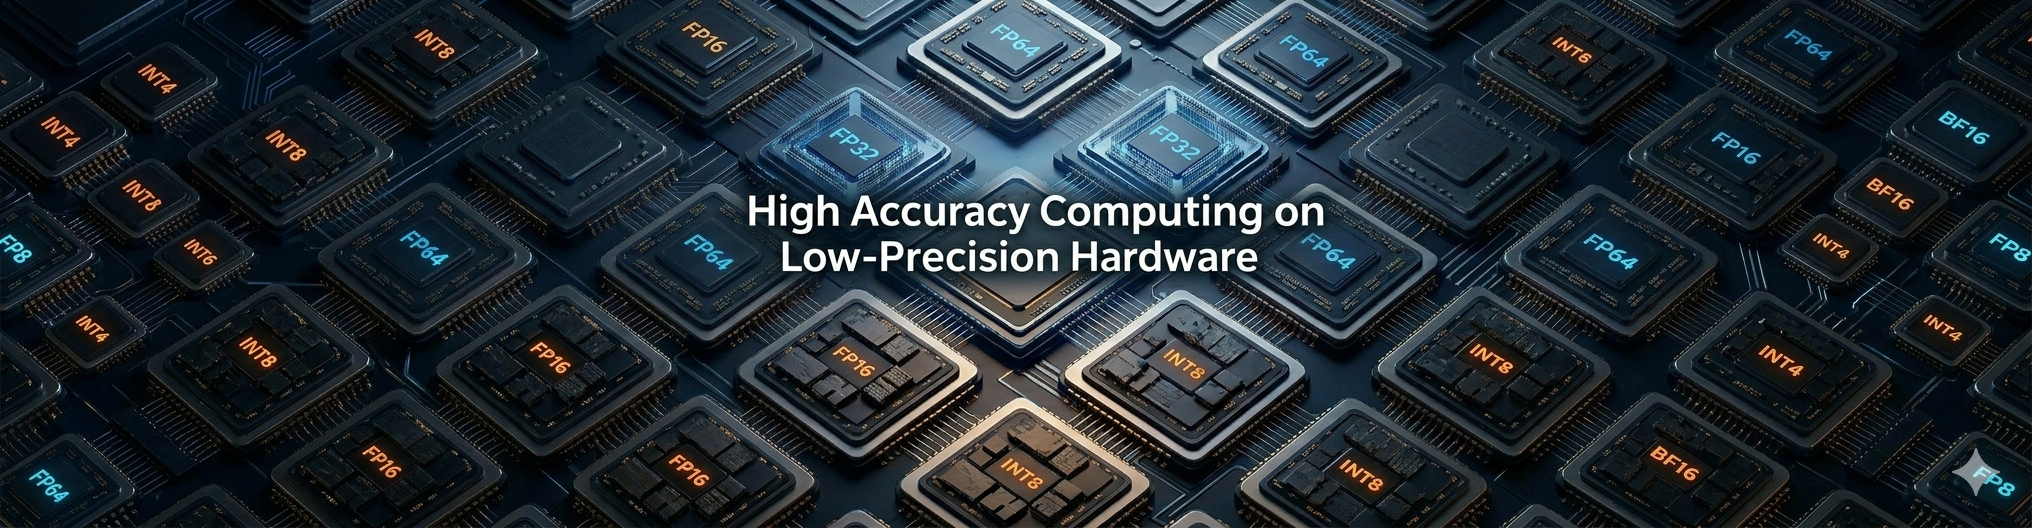
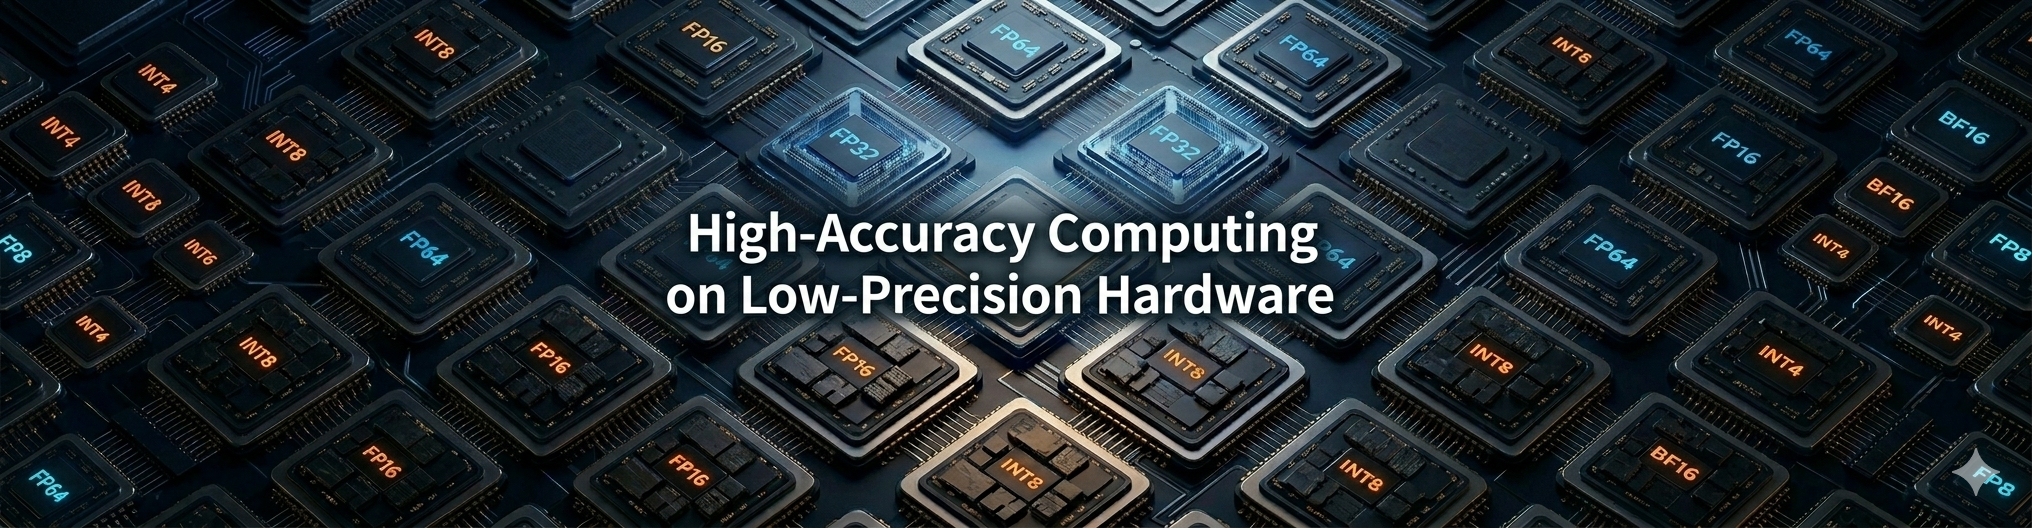
Update 2

diff --git a/_includes/home-sections.html b/_includes/home-sections.html
@@ -1,13 +1,4 @@
 {% assign w = site.data.workshop %}
-{% assign accepted = site.data["accepted-papers"] %}
-{% if w.banner and w.banner.file %}
-<div class="site-banner-bleed">
-<figure class="site-banner">
-  <img src="{{ w.banner.file | relative_url }}" alt="{{ w.banner.alt | default: w.full_title }}" width="2032" height="528" loading="eager" decoding="async">
-</figure>
-</div>
-
-{% endif %}
 # {{ w.full_title }} ({{ w.short_name }}) {#overview}
 
 {% if w.tagline %}
@@ -16,7 +7,7 @@
 
 **Workshop at {{ w.sc_event.name }} ({{ w.status_label }}).**
 
-## Overview
+## Workshop Overview
 {% if w.overview_extra and w.overview_extra.size > 0 %}
 {% for paragraph in w.overview_extra %}
 {{ paragraph }}
@@ -27,12 +18,6 @@
 {{ paragraph }}
 
 {% endfor %}
-
-{% if w.sc_event.location != "" or w.sc_event.date != "" %}
-### Venue and timing
-- **Location:** {{ w.sc_event.location | default: "TBD" }}
-- **Date:** {{ w.sc_event.date | default: "TBD" }}
-{% endif %}
 
 ### Topics of interest
 {% for topic in w.topics_of_interest %}
@@ -46,17 +31,28 @@ See **Call for papers** below for submission details.
 - {{ outcome }}
 {% endfor %}
 
-## Program {#program}
+## Workshop Schedule {#program}
 
 {{ site.data.program.intro }}
 
-> {{ site.data.program.note }}
-
-| Time | Session |
-|---:|---|
+<div class="schedule-table-wrap" role="region" aria-label="Workshop schedule">
+<table class="schedule-table">
+  <thead>
+    <tr>
+      <th scope="col">Time</th>
+      <th scope="col">Session</th>
+    </tr>
+  </thead>
+  <tbody>
 {% for item in site.data.program.schedule %}
-| {{ item.time }} | {{ item.session }} |
+    <tr>
+      <td class="schedule-time">{{ item.time | escape }}</td>
+      <td class="schedule-session">{{ item.session | escape }}</td>
+    </tr>
 {% endfor %}
+  </tbody>
+</table>
+</div>
 
 ### Invited speakers / panelists
 {% if site.data.people.featured_speakers.size > 0 %}
@@ -84,7 +80,8 @@ Submissions may include (but are not limited to):
 - {{ topic }}
 {% endfor %}
 
-### Submission instructions
+When you are ready to submit, use the following (placeholders until official SC workshop submission opens):
+
 {% if site.data.submission.portal_url != "" %}
 - **Submission portal:** [{{ site.data.submission.portal_label | default: site.data.submission.portal_url }}]({{ site.data.submission.portal_url }})
 {% else %}
@@ -105,7 +102,11 @@ Submissions may include (but are not limited to):
 
 - **Review model:** {{ site.data.submission.review_model | default: "TBD" }}
 
-For questions, use the **Contact** section at the bottom of this page.
+{% if site.data.contact.email != "" %}
+For questions, email **{{ site.data.contact.email }}**.
+{% else %}
+For questions, email the organizers (address TBD in `_data/contact.yml`).
+{% endif %}
 
 ## Important dates {#important-dates}
 
@@ -130,34 +131,3 @@ For questions, use the **Contact** section at the bottom of this page.
 {% else %}
 **TBD** — add members as a list under `program_committee` in `_data/people.yml`.
 {% endif %}
-
-## Accepted papers {#accepted-papers}
-
-{% if accepted.papers.size > 0 %}
-{% for paper in accepted.papers %}
-- **{{ paper.title }}**
-  {% if paper.authors %}<br>Authors: {{ paper.authors }}{% endif %}
-  {% if paper.links %}<br>{{ paper.links }}{% endif %}
-{% endfor %}
-{% else %}
-**TBD** — will be posted after notifications. Add entries under `papers` in `_data/accepted-papers.yml`.
-{% endif %}
-
-## Contact {#contact}
-
-For questions about the workshop, submissions, or sponsorship:
-
-{% if site.data.contact.email != "" %}
-- Email: **{{ site.data.contact.email }}**
-{% else %}
-- Email: **TBD** — set `email` in `_data/contact.yml`.
-{% endif %}
-
-{% if site.data.contact.sponsorship_email != "" %}
-- Sponsorship: **{{ site.data.contact.sponsorship_email }}**
-{% endif %}
-
-### Updates
-{% for note in site.data.contact.notes %}
-- {{ note }}
-{% endfor %}

diff --git a/assets/main.scss b/assets/main.scss
@@ -24,17 +24,30 @@
   padding-right: 1.5rem;
 }
 
-.site-header .site-title,
+/* Nav-only header (no site title link) */
+.site-header--nav-only .wrapper {
+  display: flex;
+  flex-wrap: wrap;
+  align-items: center;
+  justify-content: flex-start;
+}
+
+.site-header--nav-only .site-nav {
+  float: none;
+  position: relative;
+  right: auto;
+  top: auto;
+  line-height: inherit;
+}
+
 .site-header .site-nav .page-link {
   color: #f0f0f0;
 }
 
-.site-header .site-title:visited,
 .site-header .site-nav .page-link:visited {
   color: #f0f0f0;
 }
 
-.site-header .site-title:hover,
 .site-header .site-nav .page-link:hover {
   color: #fff;
   text-decoration: underline;
@@ -54,31 +67,45 @@
   scroll-margin-top: 4.5rem;
 }
 
-/* Full-bleed banner: break out of Minima’s .wrapper max-width */
-main.page-content,
-.workshop-home .post-content {
-  overflow-x: hidden;
+/*
+ * Full-bleed banner: break out of Minima’s centered .wrapper without clipping.
+ * Do NOT use transform + overflow-x:hidden on ancestors (causes side-crop / “zoom” on wide screens).
+ * Banner lives in _layouts/workshop.html outside .post-content.
+ */
+.workshop-home {
+  overflow: visible;
 }
 
 .site-banner-bleed {
   width: 100vw;
   max-width: 100vw;
-  position: relative;
-  left: 50%;
-  right: auto;
-  transform: translateX(-50%);
+  margin-left: calc(50% - 50vw);
+  margin-right: calc(50% - 50vw);
   margin-bottom: 1.25rem;
+  position: relative;
+  left: auto;
+  transform: none;
+  box-sizing: border-box;
 
   .site-banner {
     margin: 0;
+    width: 100%;
+    max-width: none;
+    line-height: 0;
 
     img {
       display: block;
       width: 100%;
       height: auto;
+      max-width: none;
       border-radius: 0;
     }
   }
+}
+
+/* Prevent occasional 100vw horizontal scroll without clipping the banner */
+html {
+  overflow-x: hidden;
 }
 
 .site-banner {
@@ -90,4 +117,41 @@ main.page-content,
     height: auto;
     border-radius: 4px;
   }
+}
+
+/* Fixed-column schedule (avoids misaligned “two box” rows from broken Markdown tables) */
+.schedule-table-wrap {
+  margin: 1rem 0 1.5rem;
+  overflow-x: auto;
+  -webkit-overflow-scrolling: touch;
+}
+
+.schedule-table {
+  width: 100%;
+  border-collapse: collapse;
+  table-layout: fixed;
+  font-size: 0.95rem;
+}
+
+.schedule-table th,
+.schedule-table td {
+  border: 1px solid #d8d8d8;
+  padding: 0.5rem 0.65rem;
+  vertical-align: top;
+}
+
+.schedule-table thead th {
+  background: #f2f2f2;
+  font-weight: 600;
+  text-align: left;
+}
+
+.schedule-table .schedule-time {
+  width: 11.5rem;
+  white-space: nowrap;
+  font-variant-numeric: tabular-nums;
+}
+
+.schedule-table .schedule-session {
+  word-wrap: break-word;
 }

diff --git a/_layouts/workshop.html b/_layouts/workshop.html
@@ -1,7 +1,15 @@
 ---
 layout: default
 ---
+{% assign w = site.data.workshop %}
 <article class="post workshop-home">
+{% if w.banner and w.banner.file %}
+  <div class="site-banner-bleed">
+    <figure class="site-banner">
+      <img src="{{ w.banner.file | relative_url }}" alt="{{ w.banner.alt | default: w.full_title }}" width="2032" height="528" loading="eager" decoding="async">
+    </figure>
+  </div>
+{% endif %}
   <div class="post-content">
     {{ content }}
   </div>

diff --git a/_includes/header.html b/_includes/header.html
@@ -1,7 +1,5 @@
-<header class="site-header" role="banner">
+<header class="site-header site-header--nav-only" role="banner">
   <div class="wrapper">
-    <a class="site-title" rel="author" href="{{ '/' | relative_url }}#overview">{{ site.title | escape }}</a>
-
     {% if site.data.nav.items.size > 0 %}
     <nav class="site-nav" aria-label="Main">
       <input type="checkbox" id="nav-trigger" class="nav-trigger" />

diff --git a/README.md b/README.md
@@ -17,8 +17,8 @@ This repository contains the official website for the **High-Accuracy Computing 
 | CfP instructions, topics, submission portal/template/limits | `_data/submission.yml` |
 | Important dates | `_data/dates.yml` |
 | Organizers, program committee, featured speakers | `_data/people.yml` |
-| Contact email, sponsorship email, update bullets | `_data/contact.yml` |
-| Accepted papers list | `_data/accepted-papers.yml` |
+| Organizer contact email (shown in Call for papers) | `_data/contact.yml` (`email`; optional `sponsorship_email`) |
+| Accepted papers (optional; not shown on the site until you add a section again) | `_data/accepted-papers.yml` |
 | Nav labels or Venue URL | `_data/nav.yml` |
 
 To change section **order** or add a new anchored section, update both `_includes/home-sections.html` and `_data/nav.yml` (and any redirect stubs if you rename anchors).

diff --git a/accepted-papers.md b/accepted-papers.md
@@ -1,4 +1,4 @@
 ---
 layout: redirect
-redirect_anchor: accepted-papers
+redirect_anchor: overview
 ---

diff --git a/contact.md b/contact.md
@@ -1,4 +1,4 @@
 ---
 layout: redirect
-redirect_anchor: contact
+redirect_anchor: overview
 ---
